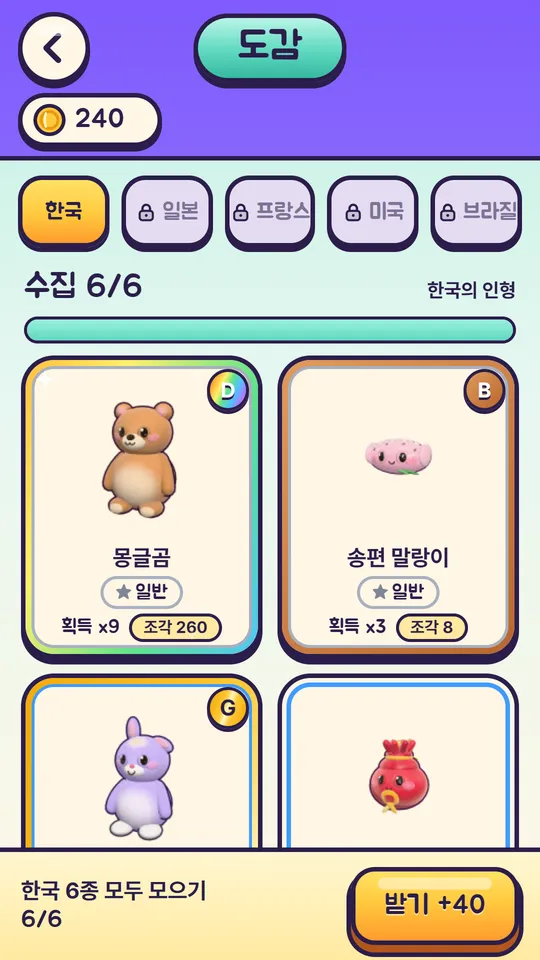
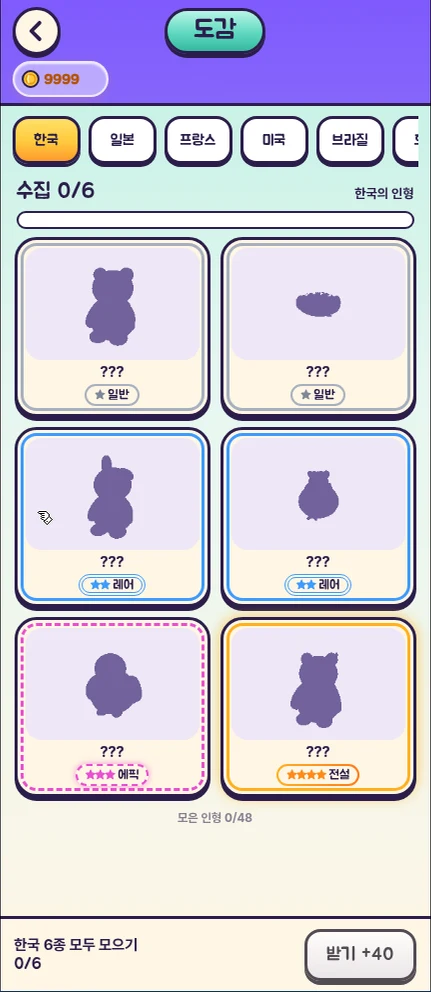
fix: replace all screenshots with live ingame captures perfectly matching section text

diff --git a/index.html b/index.html
@@ -64,7 +64,7 @@
       <div class="phone">
         <video class="phone-video" autoplay loop muted playsinline poster="/assets/img/play-korea.webp" aria-label="진짜 기계처럼 흔들리는 집게와 3D 물리 인형뽑기 플레이 영상">
           <source src="/assets/img/ingame-physics-play.mp4" type="video/mp4">
-          <img src="/assets/img/play-korea.webp" alt="한국 스테이지 플레이 화면: 집게가 매달려 있고 아래에 곰과 토끼 인형이 쌓여 있어요" width="720" height="1280" loading="lazy">
+          <img src="/assets/img/play-korea.webp" alt="실제 인게임 화면: 크레인이 몽글곰 인형을 단단히 쥐고 들어 올리는 순간" width="458" height="993" loading="lazy">
         </video>
       </div>
     </div>
@@ -83,11 +83,11 @@
       <p class="eyebrow">수집 도감</p>
       <h2 class="big">뽑을수록<br>채워지는 도감</h2>
       <p>곰, 토끼, 펭귄부터 파리지앵 푸들까지 폭신폭신 귀여운 인형들이 한 판마다 기다리고 있어요. 얻은 인형은 도감에 모이고, 인형마다 ★ 등급과 숙련도 마스터 배지가 표시돼요.</p>
-      <p>나라의 마지막 20스테이지에는 1.9배 묵직한 대형 보스 인형이 등장해요.</p>
+      <p>실제 로비에서 뽑기 기계를 돌려보며 내 캐릭터와 함께 모험을 시작하고, 나라마다 6종의 고유 인형 도감을 완성해 보세요.</p>
     </div>
     <div class="vis duo">
-      <div class="phone"><img src="/assets/img/home-menu.webp" alt="게임 첫 화면: 곰, 토끼, 펭귄 인형이 든 기계와 게임 시작 버튼" width="540" height="960" loading="lazy"></div>
-      <div class="phone lift"><img src="/assets/img/collection.webp" alt="도감 화면: 얻은 인형 카드가 등급 배지와 함께 모여 있어요" width="540" height="960" loading="lazy"></div>
+      <div class="phone"><img src="/assets/img/home-menu.webp" alt="실제 로비 화면: 내 캐릭터 종욱과 3D 아케이드 인형뽑기 기계, 게임 시작 버튼" width="431" height="992" loading="lazy"></div>
+      <div class="phone lift"><img src="/assets/img/collection.webp" alt="실제 도감 화면: 한국 6종 인형 카드와 별 등급 배지(일반, 레어, 에픽, 전설)" width="431" height="992" loading="lazy"></div>
     </div>
   </div>
 
@@ -136,7 +136,7 @@
   <div class="wrap split">
     <div class="vis">
       <div class="phone">
-        <img src="/assets/img/secret-isle.webp" alt="3D 비밀의 섬 신전 제단과 황금 트로피 전시대 화면" width="600" height="800" loading="lazy">
+        <img src="/assets/img/secret-isle.webp" alt="실제 3D 비밀의 섬 화면: 내 캐릭터가 신전 제단에 올라선 3D 탐험 화면" width="558" height="992" loading="lazy">
       </div>
     </div>
     <div class="txt">
@@ -151,12 +151,12 @@
 <section class="sec">
   <div class="wrap split">
     <div class="vis">
-      <div class="phone"><img src="/assets/img/stage-road.webp" alt="한국 스테이지 길: 번호가 붙은 스테이지가 길로 이어지고 별이 표시돼요" width="540" height="960" loading="lazy"></div>
+      <div class="phone"><img src="/assets/img/stage-road.webp" alt="실제 세계 지도 화면: 나라별 연결 항로와 별 달성 현황" width="431" height="992" loading="lazy"></div>
     </div>
     <div class="txt">
       <p class="eyebrow">여행</p>
-      <h2 class="big">나라마다 20스테이지,<br>계속 늘어나요</h2>
-      <p>스테이지마다 목표 인형이 있고, 채우면 클리어예요. 별은 사용한 판 수가 적을수록 더 많이 받아요. 한국 다음 나라는 앞 나라를 클리어하거나 국가 해금권을 구매하면 입장할 수 있어요.</p>
+      <h2 class="big">나라마다 20스테이지,<br>세계 지도로 떠나요</h2>
+      <p>한국부터 일본, 프랑스, 미국, 브라질까지 세계 지도를 열고 다음 여행지로 날아가세요. 나라마다 20개의 스테이지가 길로 이어지고, 별을 모아 새 나라를 해금해요.</p>
       <ol class="flags" aria-label="나라 목록">
         <li>한국</li><li>일본</li><li>프랑스</li><li>미국</li><li>브라질</li><li>호주</li><li>뉴질랜드</li><li>캐나다</li><li class="more">새 나라 계속 추가</li>
       </ol>
